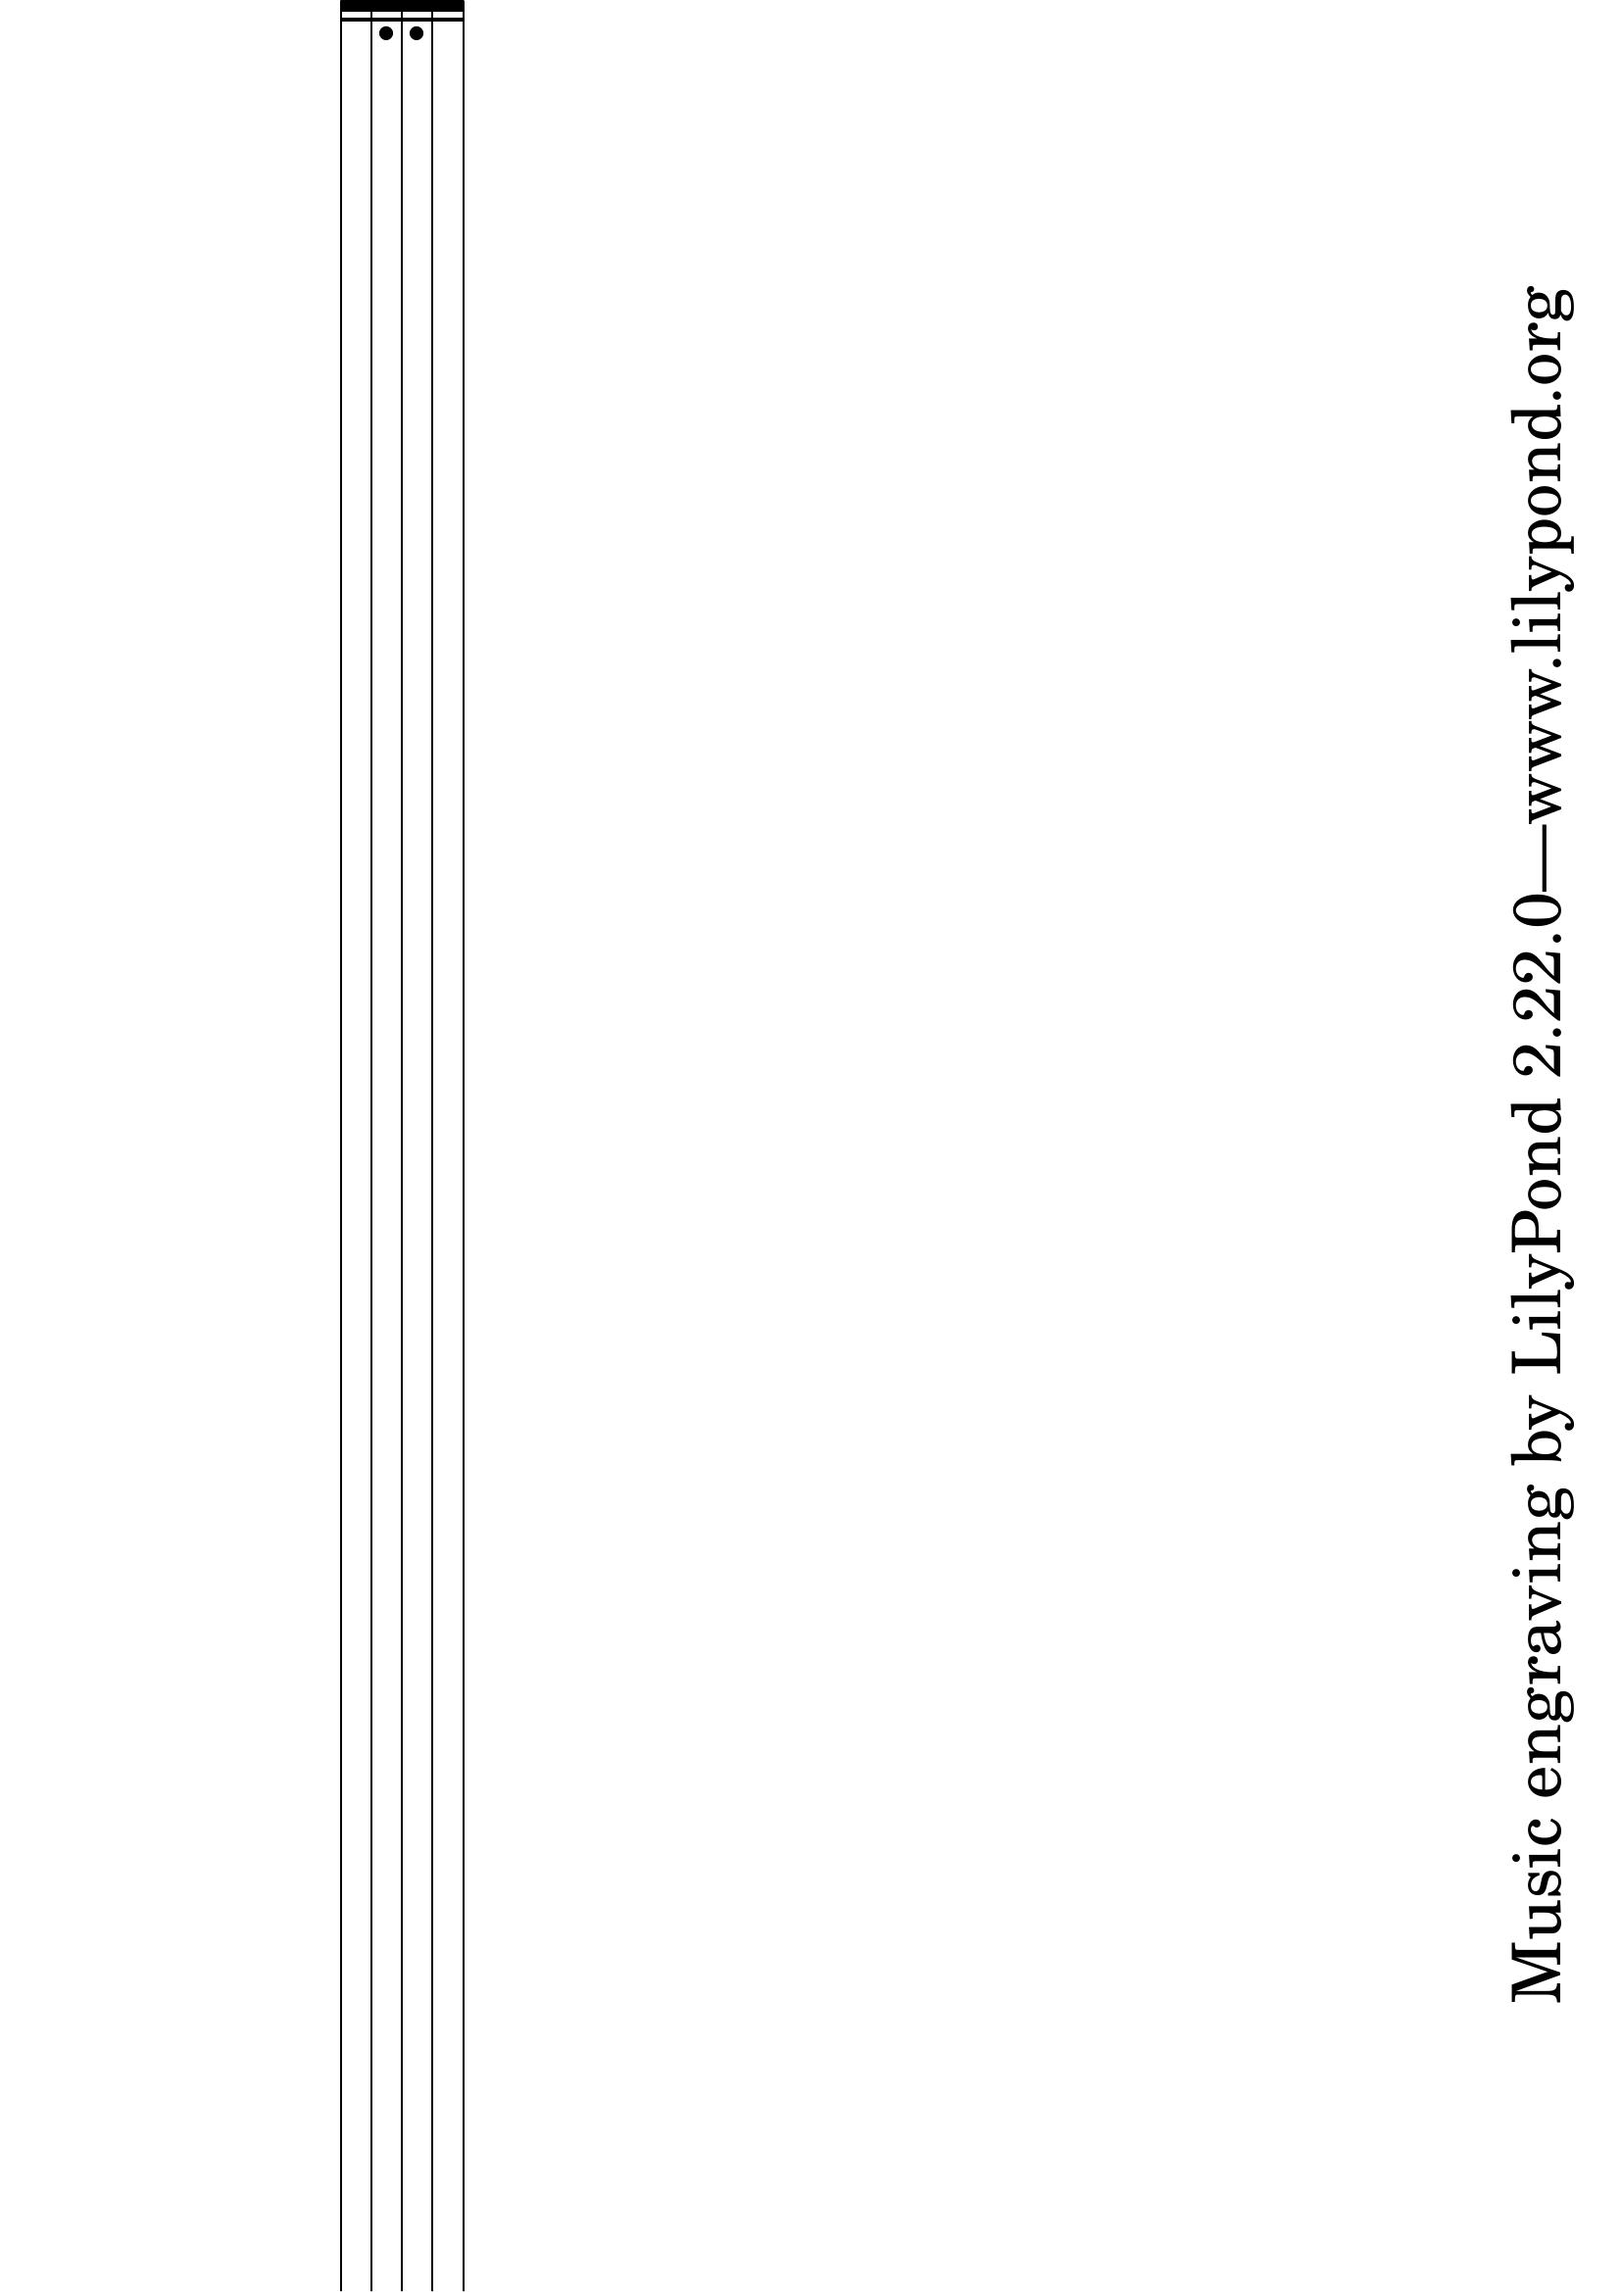
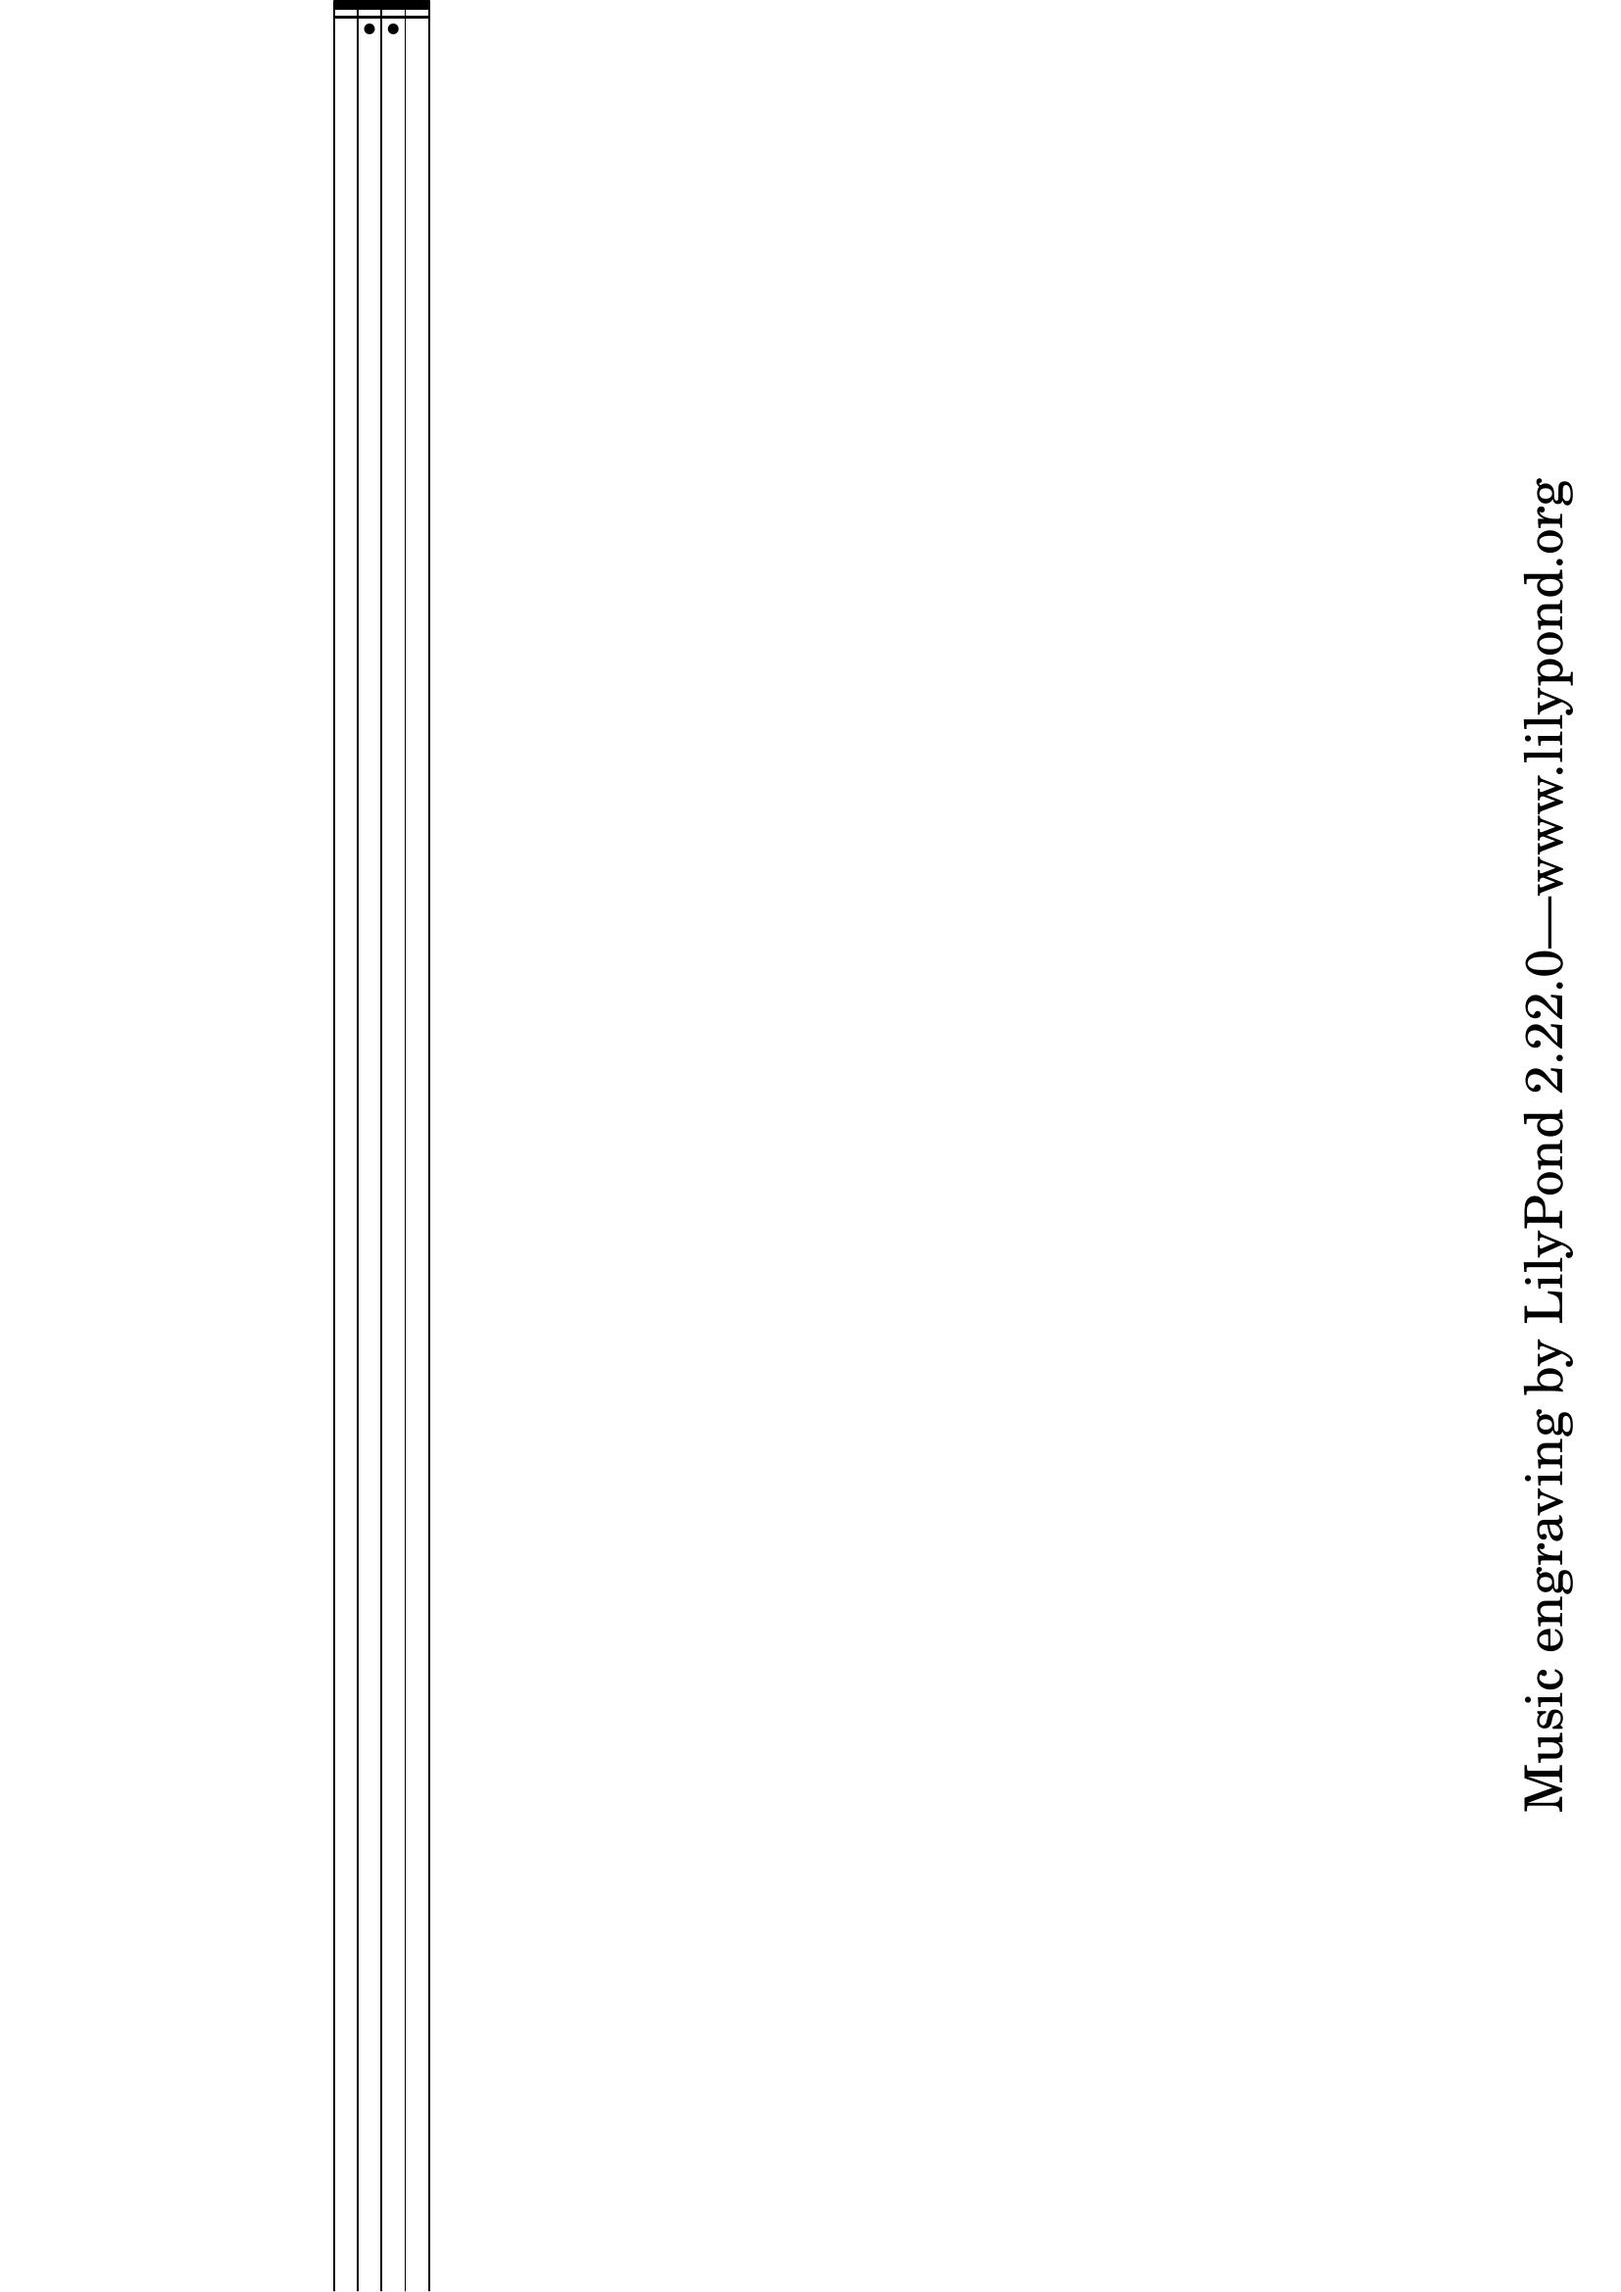
Resized bkg staff

Changed region(s): [[0.185, 0.0, 0.2775, 1.0], [0.925, 0.1248, 0.9867, 0.8739]]

diff --git a/gui.py b/gui.py
@@ -1,10 +1,12 @@
 import pygame
 import PySimpleGUI as sg
 import sys
+import os
 from socks import Client
 from game_imgs import Arrow, Text, Timer, Hand
 
-
+def load_resource(filename):
+    return os.path.join('resources', filename)
 
 WIDTH = 1280
 HEIGHT = 720
@@ -18,6 +20,16 @@ CLOCK_COOR = (int(WIDTH * 15 / 16), int(HEIGHT * 15 / 16))
 DARK_BLUE = (39, 44, 73)
 WHITE = (255, 255, 255)
 LIGHT_GREY = (191, 191, 191)
+SCALING = 1280/2339
+
+bkg_staff = pygame.image.load(load_resource('bkg_staff.jpg'))
+bkg_staff = pygame.transform.rotozoom(bkg_staff, 0, SCALING)
+
+
+
+pygame.init()
+screen = pygame.display.set_mode((WIDTH, HEIGHT))
+pygame.display.set_caption("draw(0)")
 
 def right():
     print("Right press")
@@ -25,9 +37,9 @@ def right():
 def left():
     print("Left press")
 
-pygame.init()
-screen = pygame.display.set_mode((WIDTH, HEIGHT))
-pygame.display.set_caption("draw(0)")
+def draw_bkg(surf):
+    surf.blit(bkg_staff, (0, int(HEIGHT / 3)))
+
 
 def main():
     run = True
@@ -81,6 +93,7 @@ def main():
         for arrow in arrows:
             arrow.check_mouse(mouse_pos)
 
+        draw_bkg(screen)
         for img in all_img:
             img.draw(screen)
 

diff --git a/abjad/crop_convert.py b/abjad/crop_convert.py
@@ -18,5 +18,5 @@ jpeg_im = Image.open(r"C:\Users\bkier\projects\draw(0)\abjad\output_dir\staff.jp
 width, height = jpeg_im.size
 
 print(width, height)
-im_crop = jpeg_im.crop((120, 0, 700, height))
+im_crop = jpeg_im.crop((190, 0, 600, height))
 im_crop.save(r'../resources/bkg_staff.jpg', quality=95)

diff --git a/abjad/abjad_test.py b/abjad/abjad_test.py
@@ -1,6 +1,6 @@
 import abjad
 
-preamble = r"""#(set-global-staff-size 45)
+preamble = r"""#(set-global-staff-size 35)
 
 \paper {
     #(set-paper-size "a4" 'landscape)
